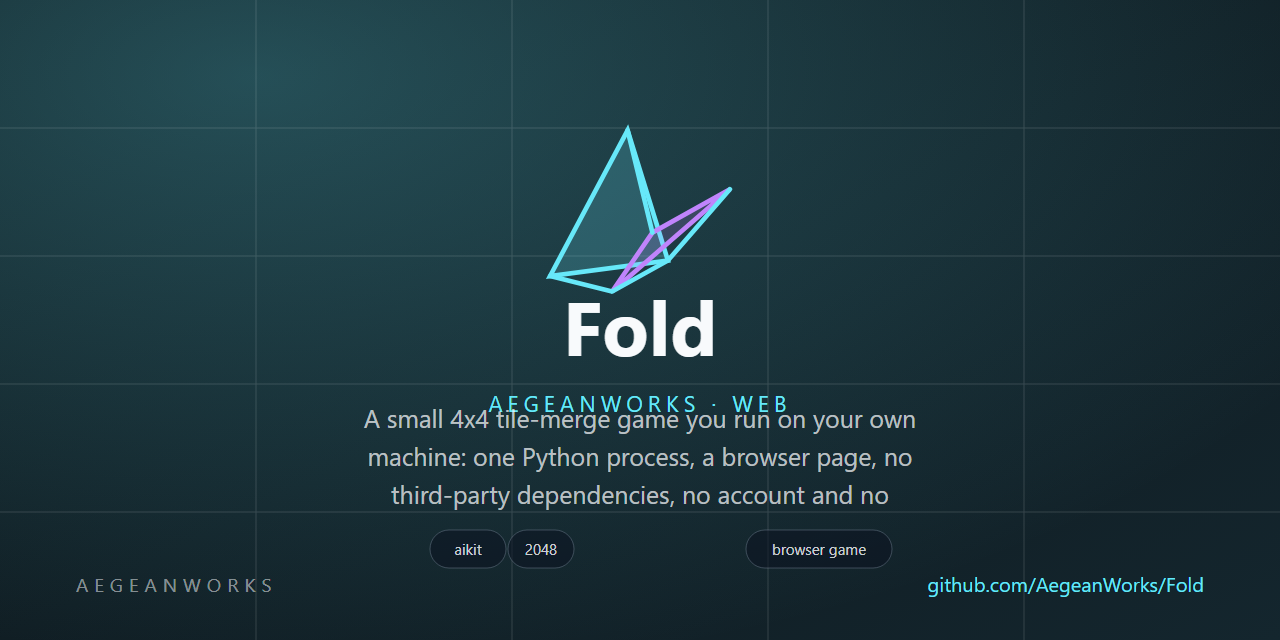
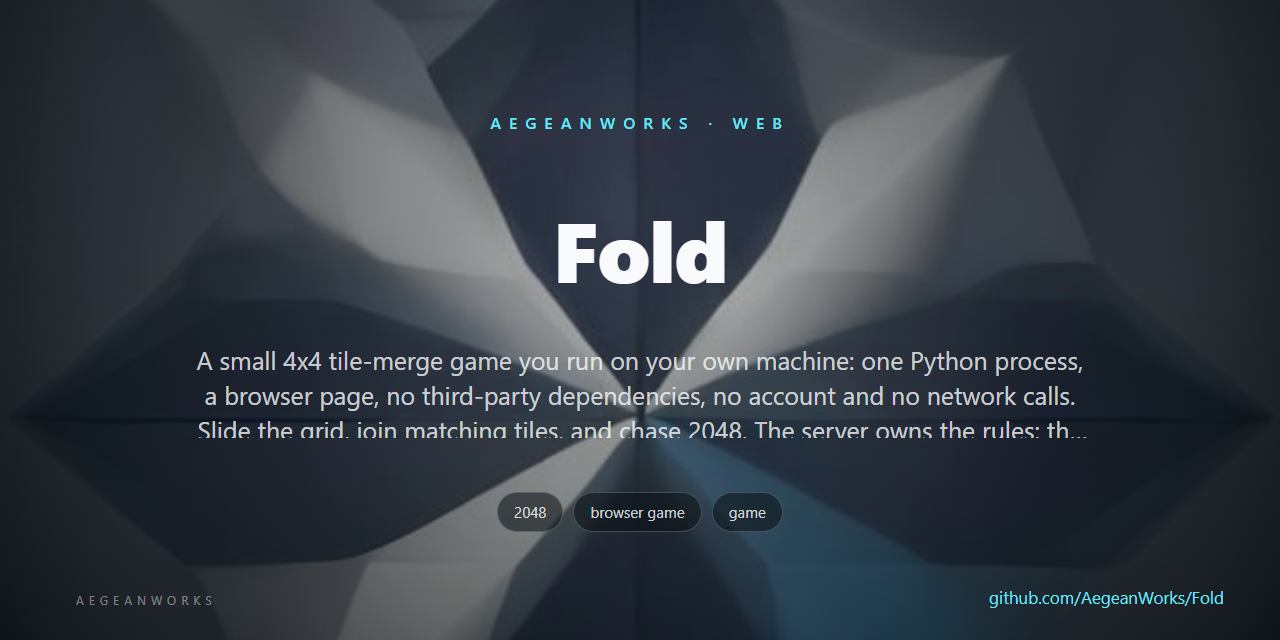
feat(brand): replace procedural marks with reviewed AI-art identities

diff --git a/README.md b/README.md
@@ -1,8 +1,8 @@
 # fold
 
 <!-- aegean:media:start -->
-<p align="center"><img src="assets/logo.svg" alt="Fold logo" width="96" height="96"></p>
-<p align="center"><img src="assets/social-preview.svg" alt="Fold social preview" width="100%"></p>
+<p align="center"><img src="assets/logo.png" alt="Fold logo" width="96" height="96"></p>
+<p align="center"><img src="assets/social-preview.png" alt="Fold social preview" width="100%"></p>
 <!-- aegean:media:end -->
 
 [![Built with AIKit](https://img.shields.io/badge/built%20with-AIKit-6f42c1)](https://github.com/AegeanWorks/AIKit)
